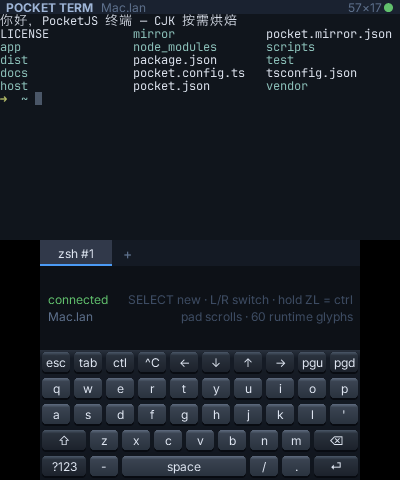
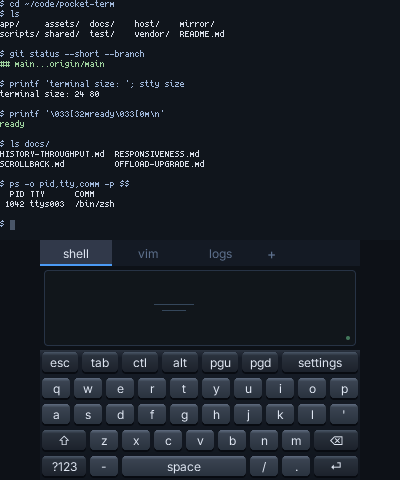
feat(site): refresh use cases with 3DS screenshots
* feat(site): refresh use cases with 3DS screenshots

* fix(site): use Pocket Doc interface screenshot

diff --git a/site/showcase.ts b/site/showcase.ts
@@ -1,5 +1,5 @@
 // Reviewed against the projects' public READMEs and PSPMAN's own site on
-// 2026-09-05. Links describe the app's route to hardware, not framework-wide support.
+// 2026-09-05; 3DS entries refreshed on 2026-09-11. Links describe app support.
 export type ShowcaseDevice = "3ds" | "psp" | "vita";
 export const DEVICES: Record<ShowcaseDevice, string> = { "3ds": "Nintendo 3DS", psp: "PSP", vita: "PS Vita" };
 export interface ShowcaseApp {
@@ -12,6 +12,7 @@ export interface ShowcaseApp {
   imageAlt: string;
   imageCredit: string;
   imageSource: string;
+  imageFit?: "contain";
   owner: string;
   community?: boolean;
   availability: string;
@@ -36,8 +37,9 @@ export const SHOWCASE_APPS: ShowcaseApp[] = [
   {
     id: "pocket-doc", name: "Pocket Doc", category: "Productivity", devices: ["3ds"],
     description: "Your Markdown library on two screens. Read above, edit and navigate below.",
-    image: "/assets/showcase/pocket-doc-hardware.jpg", imageAlt: "Pocket Doc running on a real Nintendo 3DS with Markdown above two touchpads",
-    imageCredit: "Hardware photo · Pocket Stack", imageSource: gh + "pocket-doc#screenshots", owner: "Pocket Stack",
+    image: "/assets/showcase/pocket-doc-3ds.png", imageAlt: "Pocket Doc's 3DS interface: a file list and rendered Markdown above two scrolling touchpads",
+    imageCredit: "WASM interface capture · Pocket Stack", imageSource: gh + "pocket-doc#screenshots", owner: "Pocket Stack",
+    imageFit: "contain",
     availability: "Build from source", requirement: "3DS Homebrew Launcher + paired Mac over Wi-Fi", action: "Set up on 3DS", href: gh + "pocket-doc#run", source: gh + "pocket-doc",
     steps: ["Clone the project with its runtime and install the 3DS build prerequisites.", "Build the app, then deploy its .3dsx and pairing key with ftpd.", "Start the Mac companion and open Pocket Doc from Homebrew Launcher."],
   },
@@ -63,6 +65,7 @@ export const SHOWCASE_APPS: ShowcaseApp[] = [
     description: "A tiling interface on the 3DS. Windows on top, a workspace and control deck below.",
     image: "/assets/showcase/pocket-shell.png", imageAlt: "Pocket Shell's tiled windows and lower-screen touch deck, captured on 3DS",
     imageCredit: "3DS capture · Pocket Stack", imageSource: gh + "pocket-shell#readme", owner: "Pocket Stack",
+    imageFit: "contain",
     availability: "Build from source", requirement: "3DS Homebrew Launcher; Bun + Docker to build", action: "Set up on 3DS", href: gh + "pocket-shell#quick-start", source: gh + "pocket-shell",
     steps: ["Clone the project recursively and run its setup and 3DS build.", "Copy the generated .3dsx under /3DS/ on the SD card.", "Open it in Homebrew Launcher. The separate iPod touch companion is also documented in this repository."],
   },
@@ -75,18 +78,29 @@ export const SHOWCASE_APPS: ShowcaseApp[] = [
     steps: ["Set up the project and its pinned PocketJS toolchain.", "Use the PSP or Vita build command in the README.", "Install the EBOOT or VPK. The device browses baked design tiles; this is a file viewer, not a live Figma editor."],
   },
   {
-    id: "pocket-youtube", name: "Pocket YouTube", category: "Video", devices: ["psp"],
-    description: "Search, watch, and listen on a PSP. A Mac companion brings the video over USB.",
-    image: "/assets/blog/pocket-youtube-paused.png", imageAlt: "Pocket YouTube's video playback screen on PSP",
-    imageCredit: "PSP capture · Pocket Stack", imageSource: gh + "pocket-youtube#readme", owner: "Pocket Stack",
-    availability: "Build from source", requirement: "PSP + Mac companion + PSPLINK USB connection", action: "Follow the setup", href: gh + "pocket-youtube#quick-start", source: gh + "pocket-youtube", story: "/blog/pocket-youtube/",
-    steps: ["Build the PSP app using the project's setup guide.", "Connect PSPLINK's USB host filesystem and start the Mac companion.", "Launch the app, search with the on-screen keyboard, and select a video."],
+    id: "pocket-youtube", name: "Pocket YouTube", category: "Video", devices: ["3ds", "psp", "vita"],
+    description: "Watch above, search and browse below. A Mac companion streams video to the 3DS over Wi-Fi, with PSP and PS Vita builds too.",
+    image: "/assets/showcase/pocket-youtube-3ds.png", imageAlt: "Pocket YouTube's 3DS interface replay: Big Buck Bunny above touch-screen search results",
+    imageCredit: "WASM UI replay · Pocket Stack · Big Buck Bunny © 2008 Blender Foundation, CC BY 3.0", imageSource: gh + "pocket-youtube/blob/main/docs/media/README.md", owner: "Pocket Stack",
+    imageFit: "contain",
+    availability: "Build from source", requirement: "New 3DS with homebrew and DSP firmware + Mac companion on the same LAN", action: "Set up on 3DS", href: gh + "pocket-youtube/blob/main/docs/3DS.md", source: gh + "pocket-youtube", story: "/blog/pocket-youtube/",
+    steps: ["Follow the 3DS guide to install the toolchain and prepare DSP firmware on a New 3DS.", "Build the app and deploy its .3dsx and pairing key with ftpd.", "Exit ftpd, open Pocket YouTube in Homebrew Launcher, and start the Mac companion with the console's IP address. The README also covers PSP over USB and PS Vita over Wi-Fi."],
+  },
+  {
+    id: "pocket-map", name: "Pocket Map", category: "Maps", devices: ["3ds", "psp"],
+    description: "Browse OpenStreetMap or Hyrule on a handheld. Pan with the touchpad, zoom, search and save places through a paired Mac.",
+    image: "/assets/showcase/pocket-map-3ds.png", imageAlt: "Pocket Map's native 3DS build in Azahar: Union Square above the map touchpad and zoom controls",
+    imageCredit: "Native 3DS capture in Azahar · Pocket Stack · © OpenStreetMap contributors", imageSource: gh + "pocket-map#san-francisco-on-the-3ds-native-renderer", owner: "Pocket Stack",
+    imageFit: "contain",
+    availability: "Build from source", requirement: "3DS Homebrew Launcher + paired Mac on the same LAN", action: "Set up on 3DS", href: gh + "pocket-map#try-it", source: gh + "pocket-map",
+    steps: ["Clone the project with its runtime and install the 3DS build prerequisites.", "Follow the setup guide to prepare the map assets, build the app and deploy it through ftpd.", "Open Pocket Map in Homebrew Launcher and start the Mac companion with the console's IP address. The project also documents a PSP build over USB."],
   },
   {
     id: "pocket-term", name: "Pocket Term", category: "Tools", devices: ["3ds"],
     description: "A terminal in your hands. Mac shell sessions above a touch keyboard on the 3DS.",
-    image: "/assets/showcase/pocket-term.png", imageAlt: "Pocket Term showing a directory listing and a touch keyboard on the 3DS's two screens",
-    imageCredit: "Project screenshot · Pocket Stack", imageSource: gh + "pocket-term#readme", owner: "Pocket Stack",
+    image: "/assets/showcase/pocket-term.png", imageAlt: "Pocket Term's native 3DS interface in Azahar: an 80-column terminal above session tabs, a touchpad and a keyboard",
+    imageCredit: "Native 3DS capture in Azahar · Pocket Stack", imageSource: gh + "pocket-term/blob/main/docs/screenshots/README.md", owner: "Pocket Stack",
+    imageFit: "contain",
     availability: "Build from source", requirement: "3DS homebrew setup + Mac companion", action: "Open setup guide", href: gh + "pocket-term#readme", source: gh + "pocket-term",
     steps: ["Follow the project's requirements for the Mac companion and 3DS build.", "Start the companion that hosts the terminal sessions on your Mac.", "Connect the 3DS app to browse sessions and send input with its touch keyboard."],
   },

diff --git a/site/home-showcase.ts b/site/home-showcase.ts
@@ -4,6 +4,11 @@ const esc = (value: string) => value.replaceAll("&", "&amp;").replaceAll('"', "&
 const app = (id: string) => SHOWCASE_APPS.find((item) => item.id === id)!;
 const badges = (a: ShowcaseApp) => a.devices.map((d) => `<span>${DEVICES[d]}</span>`).join("");
 const tryLink = (a: ShowcaseApp, label = "How to try") => `<a class="sc-try" href="${esc(a.href)}" data-open-app="${a.id}">${label}<span aria-hidden="true"> ↗</span><span class="sc-sr"> ${a.name}</span></a>`;
+const caseImage = (a: ShowcaseApp) => `<div class="scr${a.imageFit === "contain" ? " pe-image-contain" : ""}"><img src="${a.image}" alt="${esc(a.imageAlt)}" loading="lazy"></div>`;
+const ecosystemOrder = [
+  "PSPMAN", "Pocket YouTube", "Pocket Map", "Pocket Doc", "Pocket Shell", "Pocket Term",
+  "Pocket Figma", "Pocket Voxel", "Pocket Character", "Pocket DevTools", "OpenStrike",
+];
 
 function once(html: string, marker: string, replacement: string): string {
   if (html.split(marker).length !== 2) throw new Error(`Expected one homepage marker: ${marker}`);
@@ -19,7 +24,7 @@ function appShelf(): string {
 }
 
 function ecosystemCard(a: ShowcaseApp): string {
-  return `<article class="ecard" data-app-card data-devices="${a.devices.join(" ")}"><div class="scr pe-image-${a.id}"><img src="${a.image}" alt="${esc(a.imageAlt)}" loading="lazy"></div><div class="bd"><div class="sc-badges">${badges(a)}</div><h4>${a.name}<span>${a.community ? "community" : a.category}</span></h4><p>${a.description}${a.community ? " By ObsoleteSony. Public alpha; source currently private." : ""}</p>${tryLink(a)}<a class="story" href="${a.imageSource}">${a.community ? "Project & image credit" : "Project & capture details"} ↗</a></div></article>`;
+  return `<article class="ecard" data-app-card data-devices="${a.devices.join(" ")}">${caseImage(a)}<div class="bd"><div class="sc-badges">${badges(a)}</div><h4>${a.name}<span>${a.community ? "community" : a.category}</span></h4><p>${a.description}${a.community ? " By ObsoleteSony. Public alpha; source currently private." : ""}</p>${tryLink(a)}<a class="story" href="${a.imageSource}">${a.community ? "Project & image credit" : "Project & capture details"} ↗</a></div></article>`;
 }
 
 function enhanceEcosystem(home: string): string {
@@ -27,18 +32,26 @@ function enhanceEcosystem(home: string): string {
   const end = home.indexOf("</section>", start) + "</section>".length;
   if (start < 0 || end < start) throw new Error("Missing original Ecosystem section");
   const original = home.slice(start, end);
-  // Keep the six original cards, including their technical copy and story links.
-  let content = original.replace(/<article class="ecard">[\s\S]*?<\/article>/g, (card) => {
-    const a = SHOWCASE_APPS.find(a => card.includes(`<h4>${a.name}<span>`));
+  // Retain the authored technical copy and story links, with current app images.
+  const cards = new Map<string, string>();
+  for (const [card] of original.matchAll(/<article class="ecard">[\s\S]*?<\/article>/g)) {
+    const name = card.match(/<h4>([^<]+)<span>/)![1];
+    const a = SHOWCASE_APPS.find(a => a.name === name);
     let result = card.replace('<article class="ecard">', `<article class="ecard" data-app-card data-devices="${a ? a.devices.join(" ") : "other"}">`);
-    if (!a) return result;
-    result = result.replace(`<h4>${a.name}`, `<div class="sc-badges">${badges(a)}</div><h4>${a.name}`);
-    return result.replace(/(\s*<\/div>\s*<\/article>)$/, `${tryLink(a)}$1`);
-  });
-  const filters = `<div class="pe-filters" role="group" aria-label="Filter ecosystem by device"><button type="button" data-filter="all" aria-pressed="true">All cases</button>${Object.entries(DEVICES).map(([id,label]) => `<button type="button" data-filter="${id}" aria-pressed="false">${label}</button>`).join("")}<span class="sc-count" role="status" aria-live="polite">10 cases</span></div>`;
-  content = once(content, '<div class="eco">', filters + '<div class="eco">');
-  const tail = '    </div>\n    <div class="labband">';
-  content = once(content, tail, ["pocket-doc", "pocket-shell", "pocket-term", "pspman"].map(id => ecosystemCard(app(id))).join("\n") + "\n" + tail);
+    if (a) {
+      result = result.replace(/<div class="scr">[\s\S]*?<\/div>/, () => caseImage(a));
+      result = result.replace(`<h4>${a.name}`, `<div class="sc-badges">${badges(a)}</div><h4>${a.name}`);
+      result = result.replace(/(\s*<\/div>\s*<\/article>)$/, `${tryLink(a)}$1`);
+    }
+    cards.set(name, result);
+  }
+  for (const a of SHOWCASE_APPS) if (!cards.has(a.name)) cards.set(a.name, ecosystemCard(a));
+  const rank = (name: string) => ecosystemOrder.includes(name) ? ecosystemOrder.indexOf(name) : ecosystemOrder.length;
+  const ordered = [...cards].sort(([a], [b]) => rank(a) - rank(b)).map(([, card]) => card).join("\n");
+  const filters = `<div class="pe-filters" role="group" aria-label="Filter ecosystem by device"><button type="button" data-filter="all" aria-pressed="true">All cases</button>${Object.entries(DEVICES).map(([id,label]) => `<button type="button" data-filter="${id}" aria-pressed="false">${label}</button>`).join("")}<span class="sc-count" role="status" aria-live="polite">${cards.size} cases</span></div>`;
+  const grid = original.match(/<div class="eco">[\s\S]*?<\/div>\s*<div class="labband">/);
+  if (!grid) throw new Error("Missing original Ecosystem grid");
+  const content = once(original, grid[0], `${filters}<div class="eco">\n${ordered}\n</div>\n    <div class="labband">`);
   return home.slice(0, start) + content + home.slice(end);
 }
 

diff --git a/site/home.html b/site/home.html
@@ -607,8 +607,8 @@
       <span class="fill"></span><span class="hud">shipped on the runtime</span>
     </div>
     <p class="slede">PocketJS carries complete applications on the machines this runtime was built for:
-      games, a design-file viewer, a desktop companion, a streaming client, and the debugger itself. Each card
-      links to how it was built.</p>
+      music, video, maps, documents, shells, games, and developer tools. Each card
+      links to the project or its setup guide.</p>
     <div class="eco">
       <article class="ecard">
         <div class="scr"><img src="/assets/blog/openstrike-psp-dust2.png" alt="OpenStrike on PSP with a Solid JSX HUD"></div>
@@ -647,11 +647,11 @@
         </div>
       </article>
       <article class="ecard">
-        <div class="scr"><img src="/assets/blog/pocket-youtube-results.png" alt="Pocket YouTube search results on a PSP"></div>
+        <div class="scr"><img src="/assets/showcase/pocket-youtube-3ds.png" alt="Pocket YouTube on two 3DS screens, captured in a WASM interface replay"></div>
         <div class="bd">
           <h4>Pocket YouTube<span>client</span></h4>
-          <p>Search, thumbnails, playback and seeking on a console that predates streaming, where
-            <b>the network is a USB cable</b> and a Mac companion does the fetching.</p>
+          <p>Watch on the <b>upper screen</b> while searching and browsing on the touch screen.
+            A Mac companion streams video to the 3DS over Wi-Fi; PSP and PS Vita builds are available too.</p>
           <a class="story" href="/blog/pocket-youtube/">Read the story →</a>
         </div>
       </article>

diff --git a/site/assets/showcase.css b/site/assets/showcase.css
@@ -26,7 +26,7 @@
 [data-app-card][hidden]{display:none}
 .sc-badges{display:flex;gap:6px;flex-wrap:wrap;margin-bottom:5px}
 .sc-badges span{font:10px/1.5 var(--mono);padding:2px 6px;border:1px solid var(--line-2);border-radius:3px;color:var(--ink-2)}
-.ecard .scr.pe-image-pocket-shell img,.ecard .scr.pe-image-pocket-term img{object-fit:contain;padding:12px}
+.ecard .scr.pe-image-contain img{object-fit:contain;padding:8px}
 .sc-try{position:relative;display:inline-flex;align-items:center;gap:5px;font:600 12px/1.5 var(--sans);min-height:38px;color:var(--accent);text-decoration:none;width:fit-content}
 .sc-try:hover{text-decoration:underline;text-underline-offset:4px}
 .sc-sr{position:absolute;left:0;top:0;width:1px;height:1px;padding:0;margin:-1px;overflow:hidden;clip:rect(0,0,0,0);white-space:nowrap;border:0}

diff --git a/tests/site-showcase.test.ts b/tests/site-showcase.test.ts
@@ -28,8 +28,8 @@ test("homepage retains existing case evidence and adds device setup routes", () 
   const ecosystem = sections.find(([, id]) => id === "ecosystem")![0];
   for (const [paragraph] of ecosystem.matchAll(/<p>[\s\S]*?<\/p>/g)) expect(html).toContain(paragraph);
   for (const [link] of ecosystem.matchAll(/<a class="story"[\s\S]*?<\/a>/g)) expect(html).toContain(link);
-  expect(html.match(/data-app-card/g)).toHaveLength(10);
-  for (const id of ["pocket-doc", "pocket-shell", "pocket-term", "pspman"]) {
+  expect(html.match(/data-app-card/g)).toHaveLength(11);
+  for (const id of ["pocket-map", "pocket-doc", "pocket-shell", "pocket-term", "pspman"]) {
     expect(html).toContain(`id="try-${id}"`);
   }
   expect(html).toContain('content="index,follow"');

diff --git a/site/assets/showcase/SOURCES.md b/site/assets/showcase/SOURCES.md
@@ -1,20 +1,30 @@
 # Showcase images
 
-These images are copied from the projects' own published pages for the local
-landing-page alternatives. Keep the visible author credits and image-source
+These images come from the projects' published pages for the homepage.
+Keep the visible author credits and image-source
 links with the cases. The PSPMAN image remains ObsoleteSony's product image;
 their inclusion does not imply that PSPMAN or its artwork is open source.
 
 | Local file | Published source |
 | --- | --- |
-| `pocket-doc-hardware.jpg` | [Pocket Doc, hardware photo](https://github.com/pocket-stack/pocket-doc/blob/8cae6a679bdabcba64e694a487c2d8443f79ec2c/docs/hardware-reader.jpg) |
+| `pocket-doc-3ds.png` | [Pocket Doc, dual-screen WASM interface capture](https://github.com/pocket-stack/pocket-doc/blob/edd774b802c436940033e79665cf0824907cd9a0/docs/read.png) |
 | `pocket-shell.png` | [Pocket Shell, 3DS capture](https://github.com/pocket-stack/pocket-shell/blob/2a3ee64b866b113a17a7adcc2c2e2c0b4ecaa641/media/hw/tiled.png) |
-| `pocket-term.png` | [Pocket Term, project screenshot](https://github.com/pocket-stack/pocket-term/blob/36e316549bd8afe416a09f6fbb0163796649531a/docs/console.png) |
+| `pocket-term.png` | [Pocket Term, native 3DS capture in Azahar](https://github.com/pocket-stack/pocket-term/blob/34f27c816ac1903ed3d53b08f8f81f5ec2ec43b4/docs/screenshots/terminal.png) |
+| `pocket-youtube-3ds.png` | [Pocket YouTube, 3DS interface replay in WASM](https://github.com/pocket-stack/pocket-youtube/blob/243e164a89b98b99fa80410fe8a74d09ce4927a7/docs/media/3ds-playback.gif), frame at 6 seconds |
+| `pocket-map-3ds.png` | [Pocket Map, native 3DS capture in Azahar](https://github.com/pocket-stack/pocket-map/blob/4ded19d3eaf37a8cbf37c8b6088698ae665fd526/docs/images/sf-union-square-3ds.png) |
 | `pspman.png` | [PSPMAN, Now Playing](https://www.obsoletesony.com/images/pspman/now-playing.png) |
 
 The remaining screenshots already live in `site/assets/blog/`. Their capture
 provenance is recorded in the corresponding project README and PocketJS blog
 post; the homepage's app details link to those sources.
+
+The YouTube frame was extracted with FFmpeg without cropping or resizing.
+It records the app with fixture services; see the project's
+[recording notes](https://github.com/pocket-stack/pocket-youtube/blob/243e164a89b98b99fa80410fe8a74d09ce4927a7/docs/media/README.md).
+Video footage is **Big Buck Bunny**, © 2008 Blender Foundation, licensed under
+[CC BY 3.0](https://creativecommons.org/licenses/by/3.0/); see the
+[film credits](https://peach.blender.org/about/). Pocket Map uses
+© [OpenStreetMap contributors](https://www.openstreetmap.org/copyright).
 
 App setup information was checked on 2026-09-05 against the public READMEs
 for [OpenStrike](https://github.com/pocket-stack/open-strike),
@@ -24,6 +34,9 @@ for [OpenStrike](https://github.com/pocket-stack/open-strike),
 [Pocket Figma](https://github.com/pocket-stack/pocket-figma),
 [Pocket YouTube](https://github.com/pocket-stack/pocket-youtube), and
 [Pocket Term](https://github.com/pocket-stack/pocket-term).
+
+On 2026-09-11, the 3DS entries were checked against the current main branches
+of Pocket YouTube, Pocket Map, Pocket Doc, Pocket Shell and Pocket Term.
 
 PSPMAN's [About page](https://www.obsoletesony.com/pspman/about) credits
 PocketJS. Its [public issue tracker](https://github.com/obsoletesony/PSPMAN-Issues)
